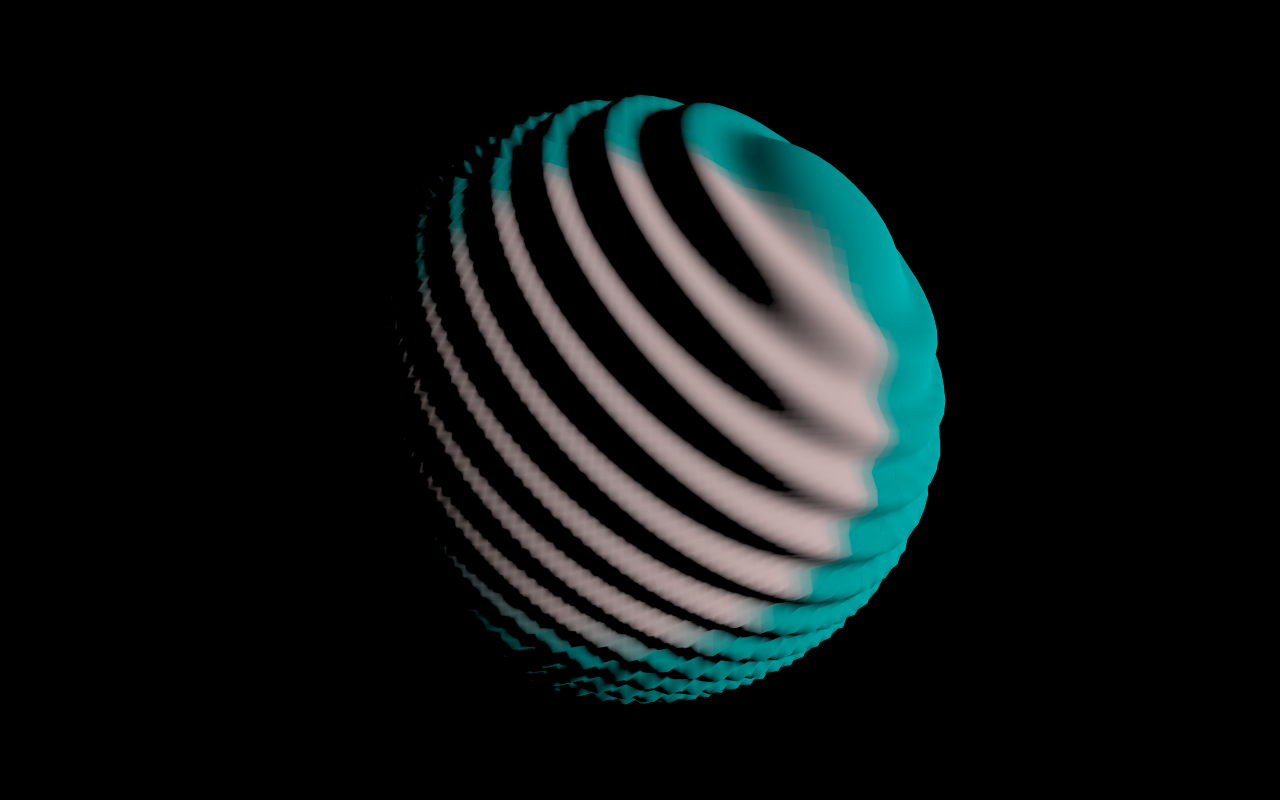
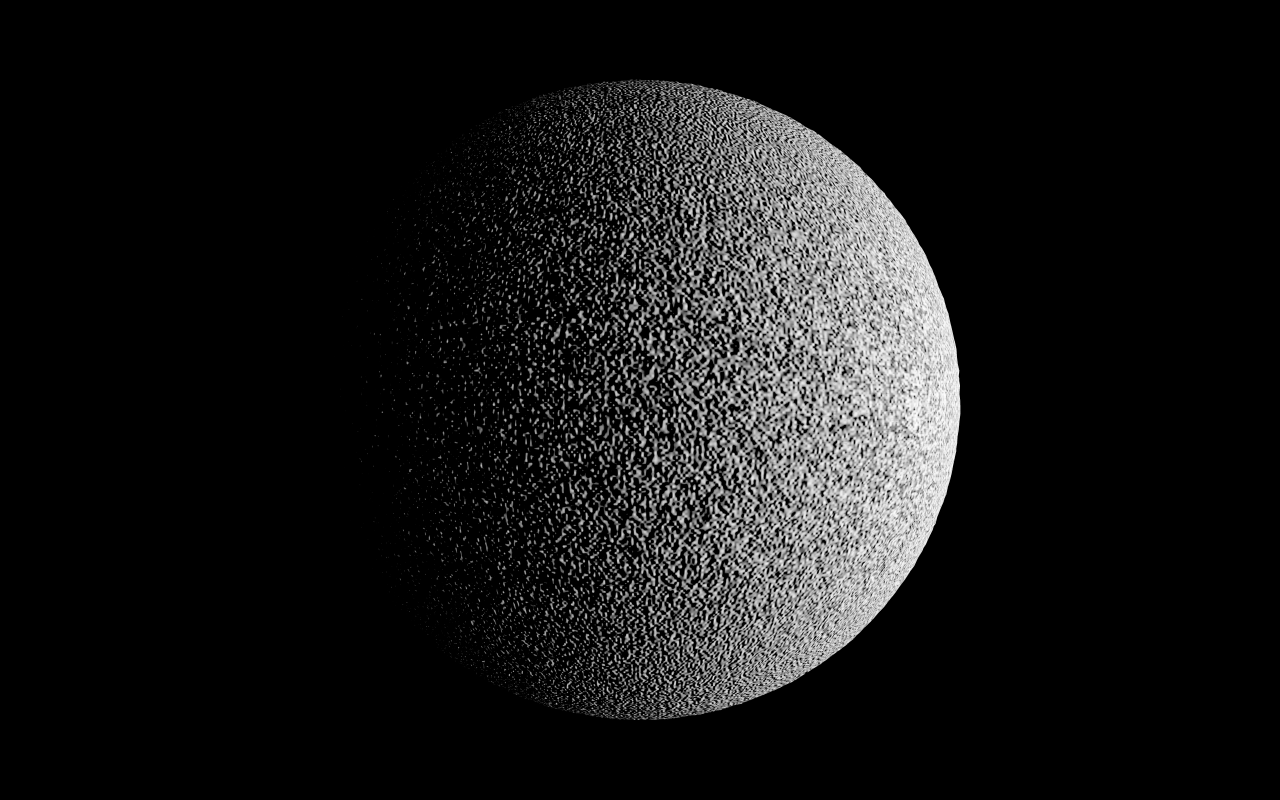
misc: updated screenshots

Changed region(s): [[0.3125, 0.0938, 0.75, 0.9062]]

diff --git a/src/bin/screenshot.rs b/src/bin/screenshot.rs
@@ -76,7 +76,7 @@ fn main() {
     let display = create(&events_loop);
 
     // Initialize a planet
-    let planet_desc = planet::Description { radius: 1000.0 };
+    let planet_desc = planet::Description { radius: 400000.0 };
     let planet_transform = Transform::identity();
     let mut planet_renderer =
         planet::Renderer::new(&display, planet_desc, planet::Generator::new(planet_desc))
@@ -125,6 +125,7 @@ fn main() {
             screenshot.rotation.1.to_radians(),
             screenshot.rotation.2.to_radians(),
         ));
+        camera.set_far(20000000.0);
 
         // Construct a frustum
         let frame_size = frame_buffer.get_dimensions();
